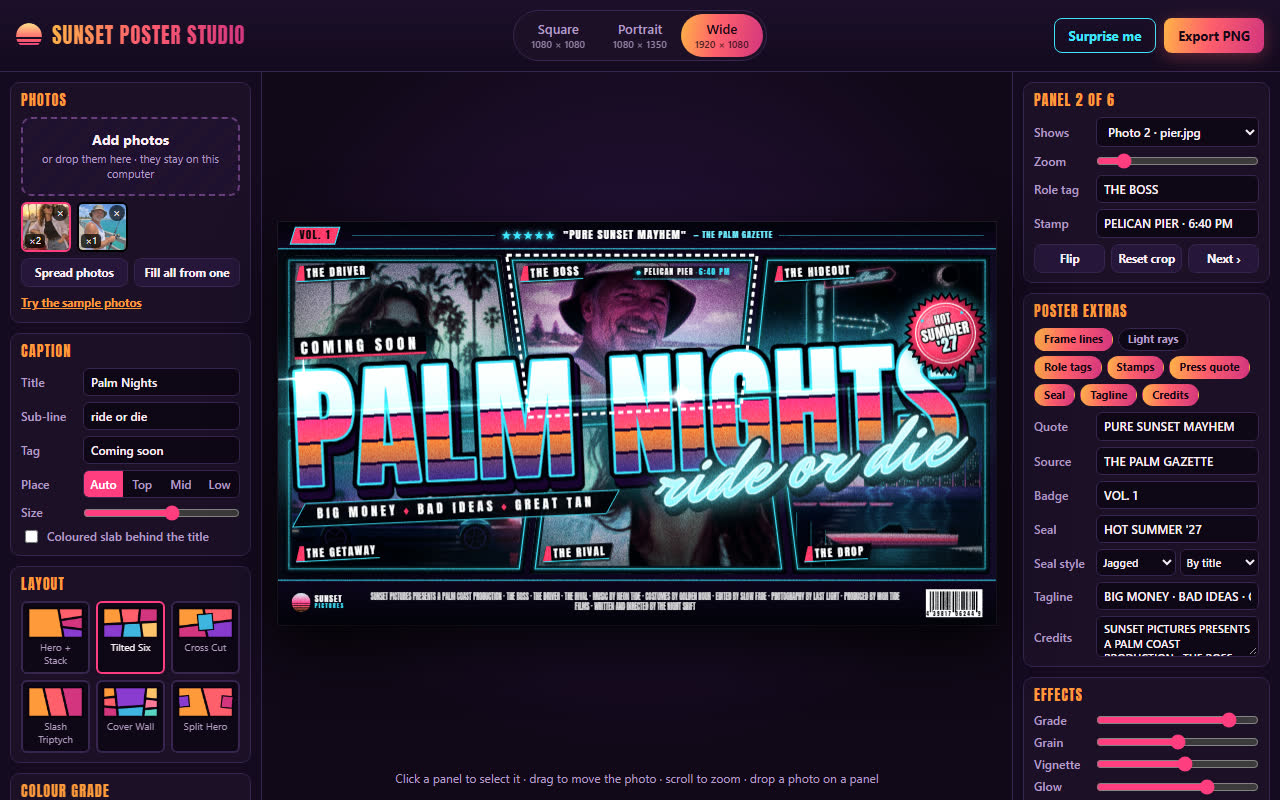
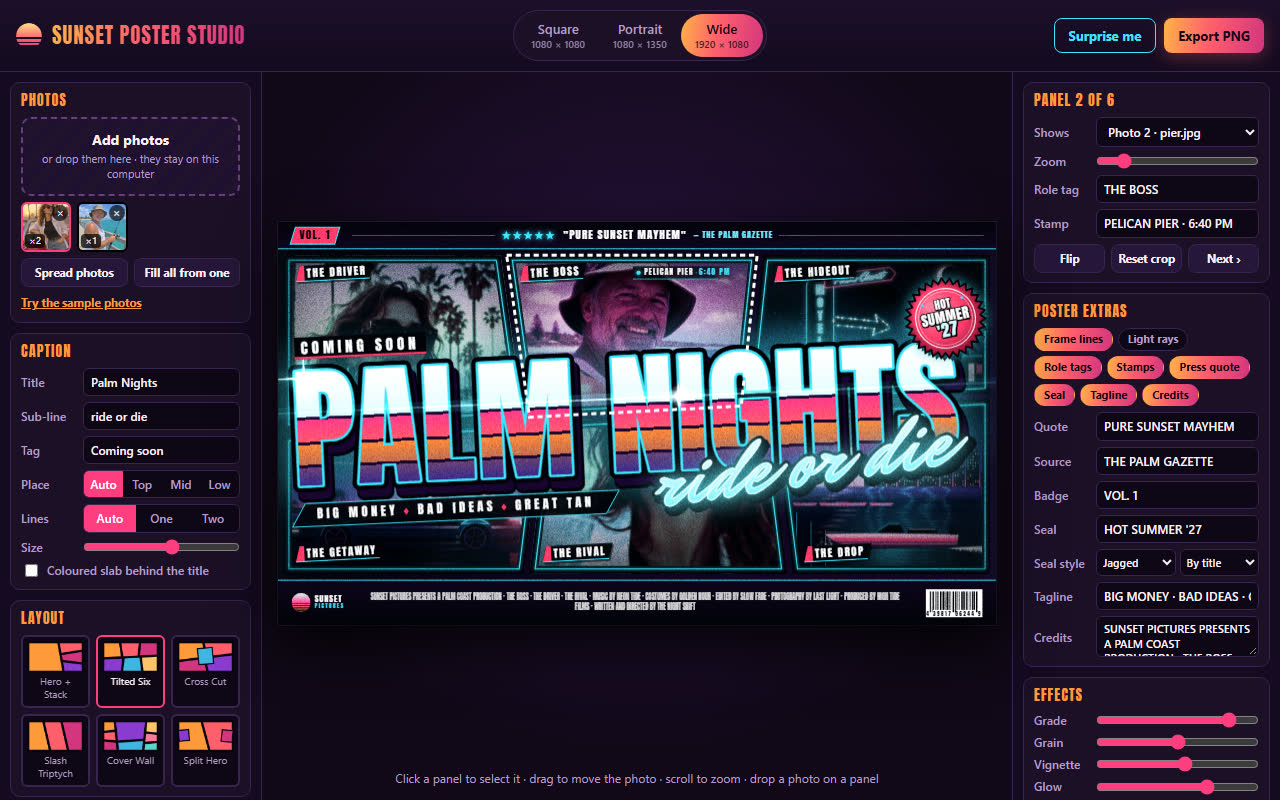
Portrait cover: hero layout, seal clear of the title, title lines option
- Portrait screenshot uses the hero layout: one big face over the
  boulevard, the title across the seam, and a row of supporting panels
  (the boss, the getaway car, the marina) instead of a middle row hidden
  behind the lettering.
- The seal sits higher on the title's shoulder so it no longer covers
  the last letters.
- New "Lines" control in the Caption card (Auto / One / Two) to keep the
  title on one line or stack it; also ?lines= for screenshot scenes.
- Screenshots recaptured.

Changed region(s): [[0.0, 0.625, 0.1875, 1.0], [0.6875, 0.3438, 0.7812, 0.4688]]

diff --git a/app/src/lettering.js b/app/src/lettering.js
@@ -53,14 +53,17 @@ function setTitleFont(ctx, size) {
   ctx.letterSpacing = `${size * 0.012}px`;
 }
 
-/** Picks the title's lines and font size so it letters as big as the shape's budget allows (two lines only when
- * that is clearly bigger), times the person's lettering-size setting. */
-export function fitTitle(ctx, title, width, height, scale = 1) {
+/** Picks the title's lines and font size so it letters as big as the shape's budget allows, times the person's
+ * lettering-size setting. `lineCount` 1 or 2 forces one or two lines (two needs a space in the title); 'auto' takes
+ * two lines only when that is clearly bigger. */
+export function fitTitle(ctx, title, width, height, scale = 1, lineCount = 'auto') {
   const budget = TITLE_BUDGET[shapeOf(width, height)];
   setTitleFont(ctx, 100);
   const capRatio = ctx.measureText('H').actualBoundingBoxAscent / 100 || 0.74;
   let best = null;
-  for (const lines of titleLineOptions(title)) {
+  const options = titleLineOptions(title);
+  const wanted = options.filter((lines) => String(lines.length) === String(lineCount));
+  for (const lines of wanted.length ? wanted : options) {
     const widest = Math.max(...lines.map((l) => ctx.measureText(l).width)) / 100;
     const byWidth = (budget.width * width) / Math.max(widest, 0.01);
     const caps = lines.length === 1 ? budget.single : budget.block;
@@ -363,7 +366,7 @@ function drawSubLine(ctx, text, x, y, subSize, palette, fx) {
 export function planCaption(ctx, caption, layoutCaption, width, height, opts = {}) {
   const area = opts.area ?? { top: 0, bottom: height };
   const unit = Math.min(width, height);
-  const { lines, size, capRatio } = fitTitle(ctx, caption.title, width, height, caption.scale ?? 1);
+  const { lines, size, capRatio } = fitTitle(ctx, caption.title, width, height, caption.scale ?? 1, caption.lines ?? 'auto');
   const capH = size * capRatio;
   const lineStep = capH * LINE_STEP;
   const blockH = capH + lineStep * (lines.length - 1);

diff --git a/app/src/shots.js b/app/src/shots.js
@@ -2,7 +2,7 @@
 // writes); ?shot=editor shows the whole editor. Other keys set the scene:
 //   size=square|portrait|wide  layout=<id>  grade=<id>  photos=boulevard,pier (samples under app/samples/)
 //   fill=spread|scenes|one-<n>  src=photo:0,scene:palm-highway,...  crop=fx/fy/zoom[/f],...  (per panel, in order)
-//   title= sub= tag= pos=auto|top|center|bottom  scale=<lettering size>  seed=<n> (runs Surprise me)  select=<panel>
+//   title= sub= tag= pos=auto|top|center|bottom  scale=<lettering size>  lines=auto|1|2  seed=<n> (runs Surprise me)  select=<panel>
 //   strength= grain= vignette= glow= border=  slab=1 (the coloured slab behind the title)
 //   roles=THE BOSS,THE DRIVER,...  stamps=,CORAL CAUSEWAY · 7:15 PM,...  (per panel, in order; empty keeps none)
 //   quote= source= vol= seal= edge=jagged|scalloped sealspot=title|corner tagline= credits=  off=quote,seal,...  on=rays,...
@@ -41,6 +41,7 @@ export async function runShot(query, api) {
   for (const key of ['title', 'sub', 'tag']) if (query.has(key)) state.caption[key] = query.get(key);
   if (query.has('pos')) state.caption.position = query.get('pos');
   if (query.has('scale')) state.caption.scale = Number(query.get('scale'));
+  if (query.has('lines')) state.caption.lines = query.get('lines');
   for (const key of Object.keys(state.fx)) if (query.has(key)) state.fx[key] = Number(query.get(key));
   if (query.has('slab')) state.caption.slab = query.get('slab') === '1';
   if (query.has('roles')) query.get('roles').split(',').forEach((role, i) => { state.roles[i] = role; });

diff --git a/app/src/main.js b/app/src/main.js
@@ -214,6 +214,7 @@ function syncControls() {
   for (const b of $('layout-list').children) b.classList.toggle('active', b.dataset.layout === state.layoutId);
   for (const b of $('grade-list').children) b.classList.toggle('active', b.dataset.grade === state.gradeId);
   for (const b of $('caption-position').children) b.classList.toggle('active', b.dataset.value === state.caption.position);
+  for (const b of $('caption-lines').children) b.classList.toggle('active', b.dataset.value === String(state.caption.lines ?? 'auto'));
   $('caption-title').value = state.caption.title;
   $('caption-sub').value = state.caption.sub;
   $('caption-tag').value = state.caption.tag;
@@ -276,6 +277,12 @@ function wireControls() {
   for (const b of $('caption-position').children) {
     b.addEventListener('click', () => {
       state.caption.position = b.dataset.value;
+      update();
+    });
+  }
+  for (const b of $('caption-lines').children) {
+    b.addEventListener('click', () => {
+      state.caption.lines = b.dataset.value;
       update();
     });
   }

diff --git a/app/index.html b/app/index.html
@@ -42,6 +42,11 @@
           <button type="button" data-value="auto">Auto</button><button type="button" data-value="top">Top</button><button type="button" data-value="center">Mid</button><button type="button" data-value="bottom">Low</button>
         </div>
       </div>
+      <div class="field inline"><span>Lines</span>
+        <div class="segmented" id="caption-lines">
+          <button type="button" data-value="auto">Auto</button><button type="button" data-value="1">One</button><button type="button" data-value="2">Two</button>
+        </div>
+      </div>
       <label class="field inline"><span>Size</span><input id="caption-scale" type="range" min="0.6" max="1.3" step="0.01" value="1"></label>
       <label class="check"><input id="caption-slab" type="checkbox"> Coloured slab behind the title</label>
     </section>

diff --git a/app/src/state.js b/app/src/state.js
@@ -54,7 +54,7 @@ export function createPosterState() {
     gradeId: 'sunset-strip',
     photos: [],
     panels: Array.from({ length: MAX_PANELS }, (_, i) => ({ source: `scene:${SCENES[i % SCENES.length].id}`, crop: defaultCrop() })),
-    caption: { title: 'Vice Beach', sub: 'one last summer', tag: 'Coming soon', position: 'auto', slab: false, scale: 1 },
+    caption: { title: 'Vice Beach', sub: 'one last summer', tag: 'Coming soon', position: 'auto', lines: 'auto', slab: false, scale: 1 },
     roles: [...DEFAULT_ROLES],
     stamps: [...DEFAULT_STAMPS],
     extras: defaultExtras(),

diff --git a/app/src/poster-extras.js b/app/src/poster-extras.js
@@ -443,7 +443,7 @@ export function sealPlacement(state, g, area) {
     y = area.top + margin + r;
   } else {
     const lx = g.blockW / 2 - r * 0.15;
-    const ly = -g.blockH / 2 - r * 0.25;
+    const ly = -g.blockH / 2 - r * 0.62;
     x = g.x + lx * Math.cos(g.angle) - ly * Math.sin(g.angle);
     y = g.y + lx * Math.sin(g.angle) + ly * Math.cos(g.angle);
   }
